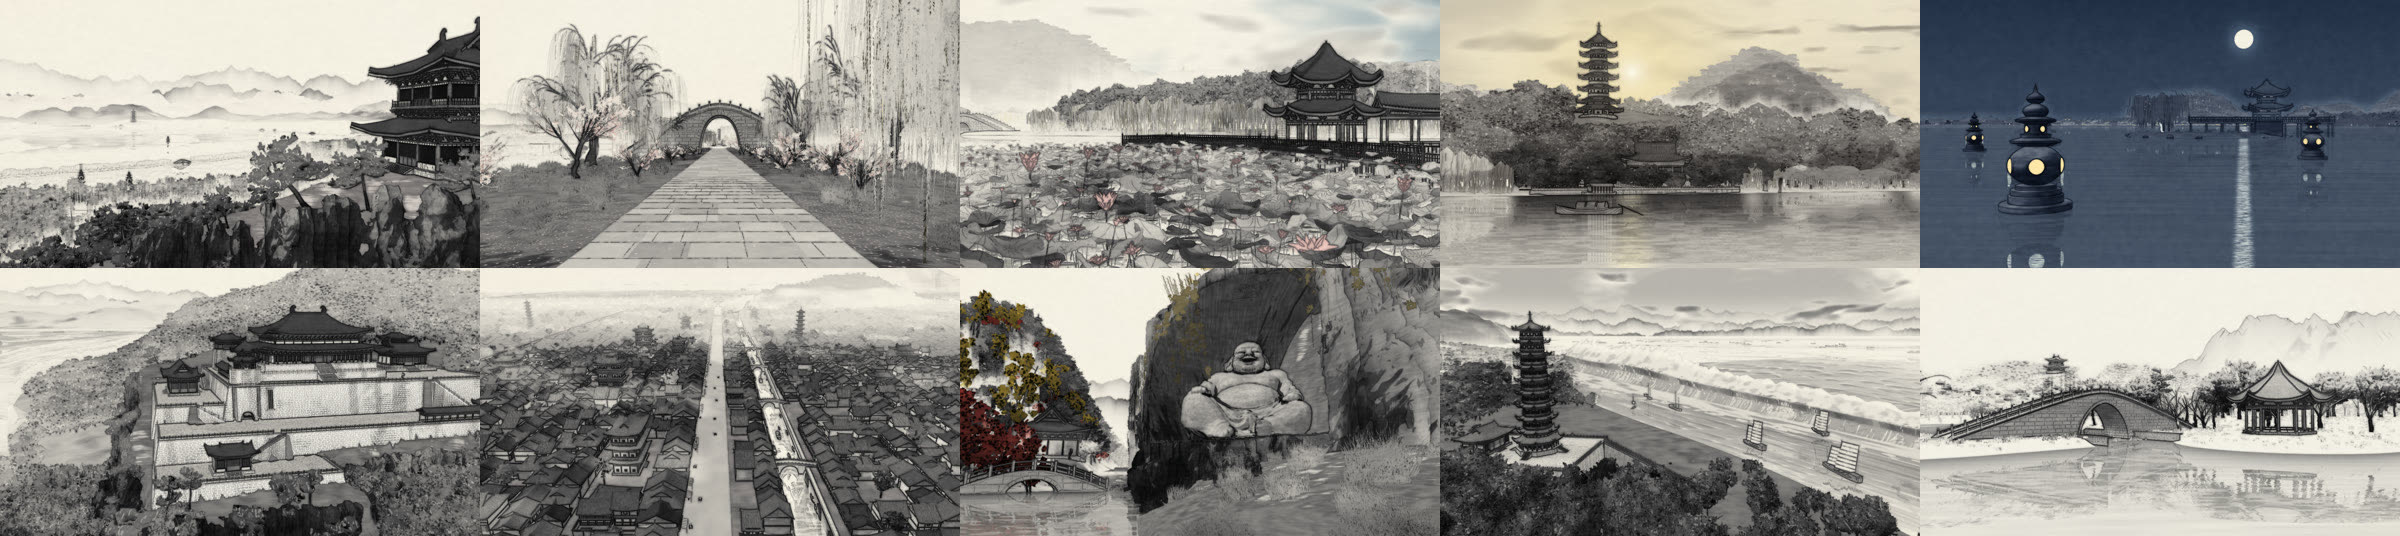
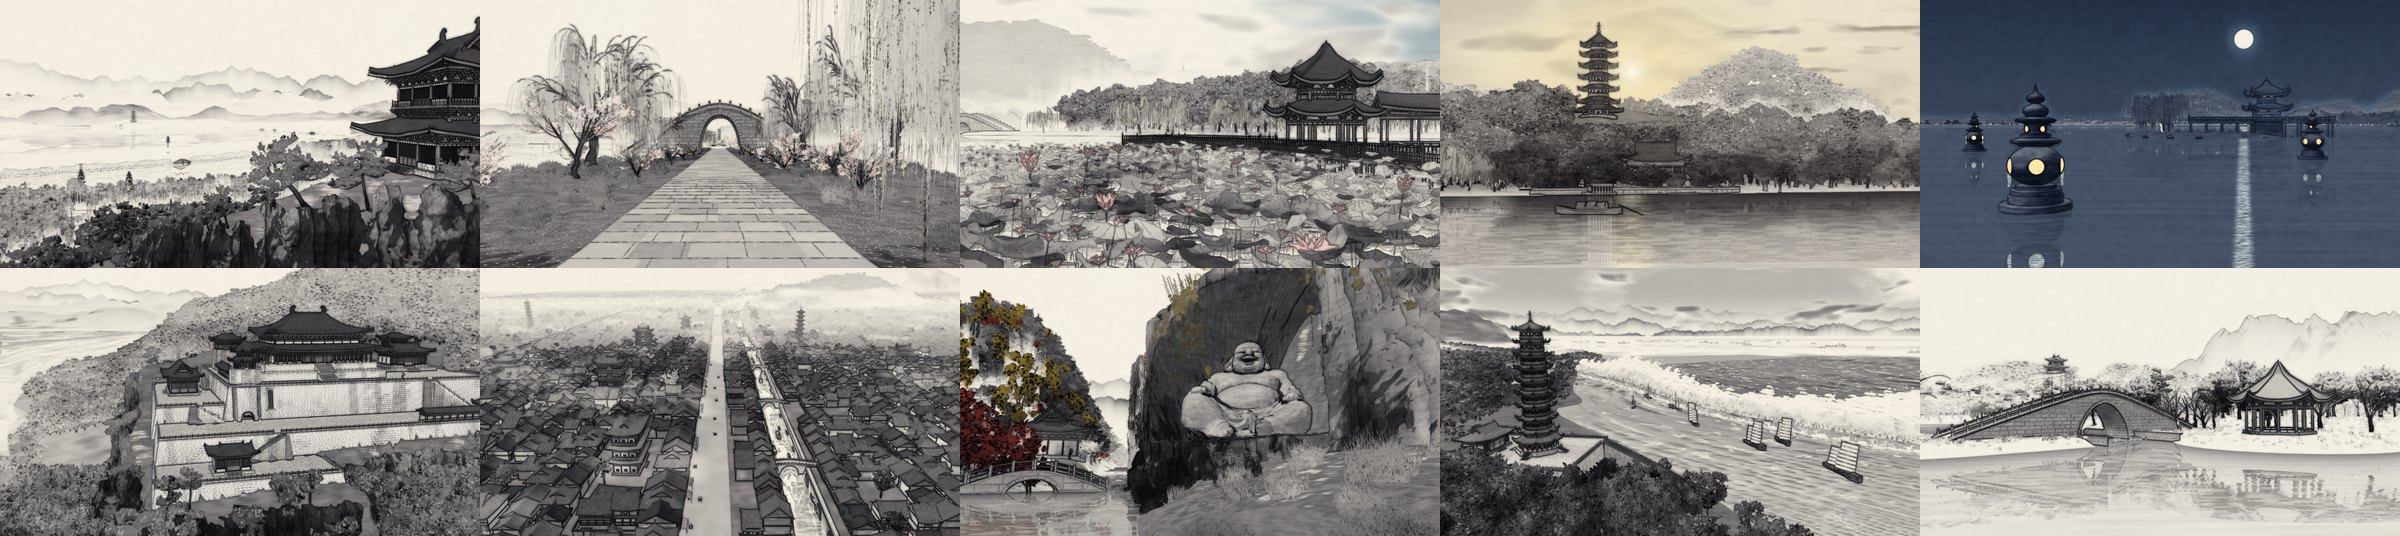
README: the ten viewpoints re-rendered (六和塔's modelled river), a note on modelled water

diff --git a/README.md b/README.md
@@ -4,7 +4,7 @@
 
 A WebGPU engine, in TypeScript, for walkable worlds painted as Chinese ink. Its first world is 临安, exported from
 [Keith-CY/linan](https://github.com/Keith-CY/linan): walk it at https://linan.lapla.si (`examples/linan`, linan's
-interface over Mo; the city is 191 MiB packed, 114 MiB of it at the start, each building's finer levels fetched as you
+interface over Mo; the city is 187 MiB packed, 113 MiB of it at the start, each building's finer levels fetched as you
 come near). Design: `docs/ARCHITECTURE.md`; the scene files it reads: `docs/SCENE_FORMAT.md`; what comes next:
 `docs/PLAN.md`.
 
@@ -12,6 +12,10 @@ Two painters turn the G-buffer into ink. Painter 2 (the default, `src/render/pai
 one that made its approved stills, ported pass for pass: a tone from albedo × light with each look's levels baked at
 its viewpoint, its ½ and ⅛ blurs, the light on the form, brush outlines through a jump flood, where each pixel sits in
 its mass, and the washes, marks and lines of 纯水墨. Painter 1 (`?p2=0`) is Mo's first, one pass.
+
+Water can be modelled, not only a flat plane: within a region a scene gives, the surface is a grid lifted on the GPU
+by crested waves, and a tidal bore stands across it as the same water rising (`src/water/`, `src/shaders/water.wgsl`),
+so 六和塔's bore grows out of the river with no seam; the painter reads the heights for its crests, troughs and chop.
 
 ![Walking 苏堤 through a bridge's arch, captured with tools/capture.mjs](docs/img/walk.webp)
 
